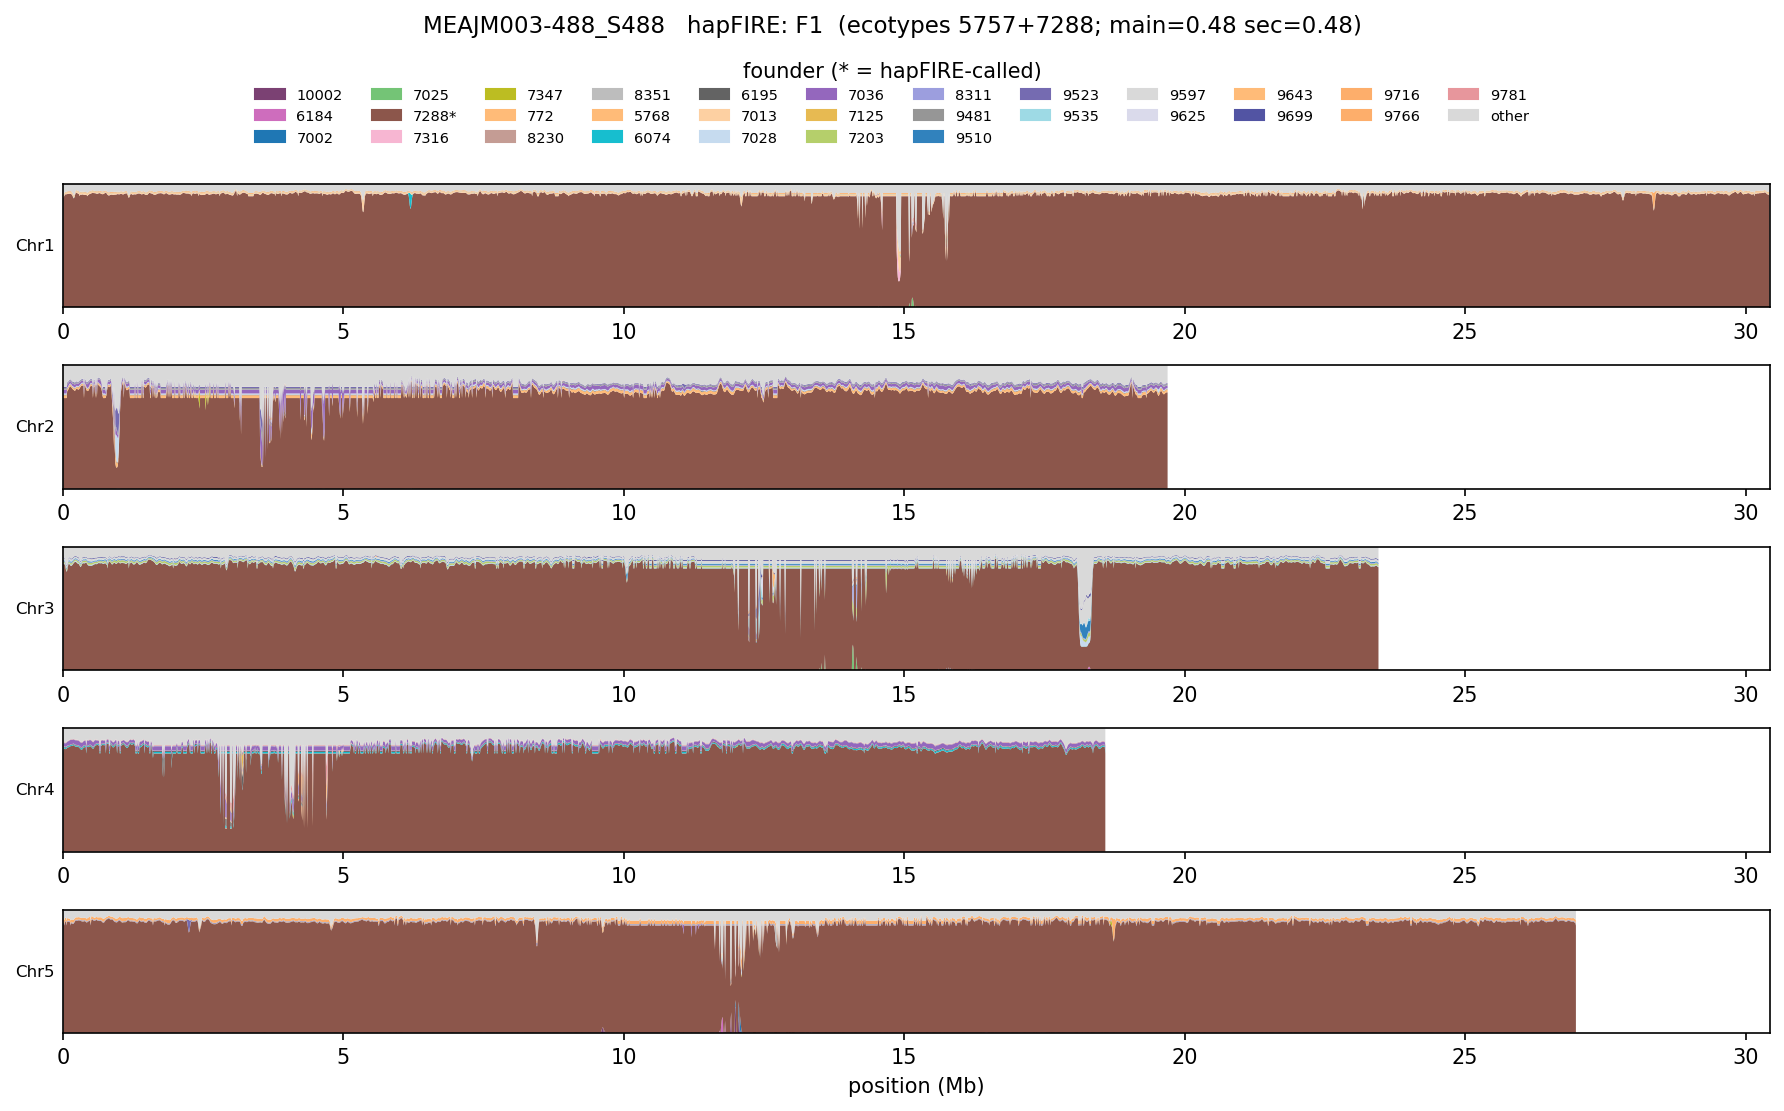
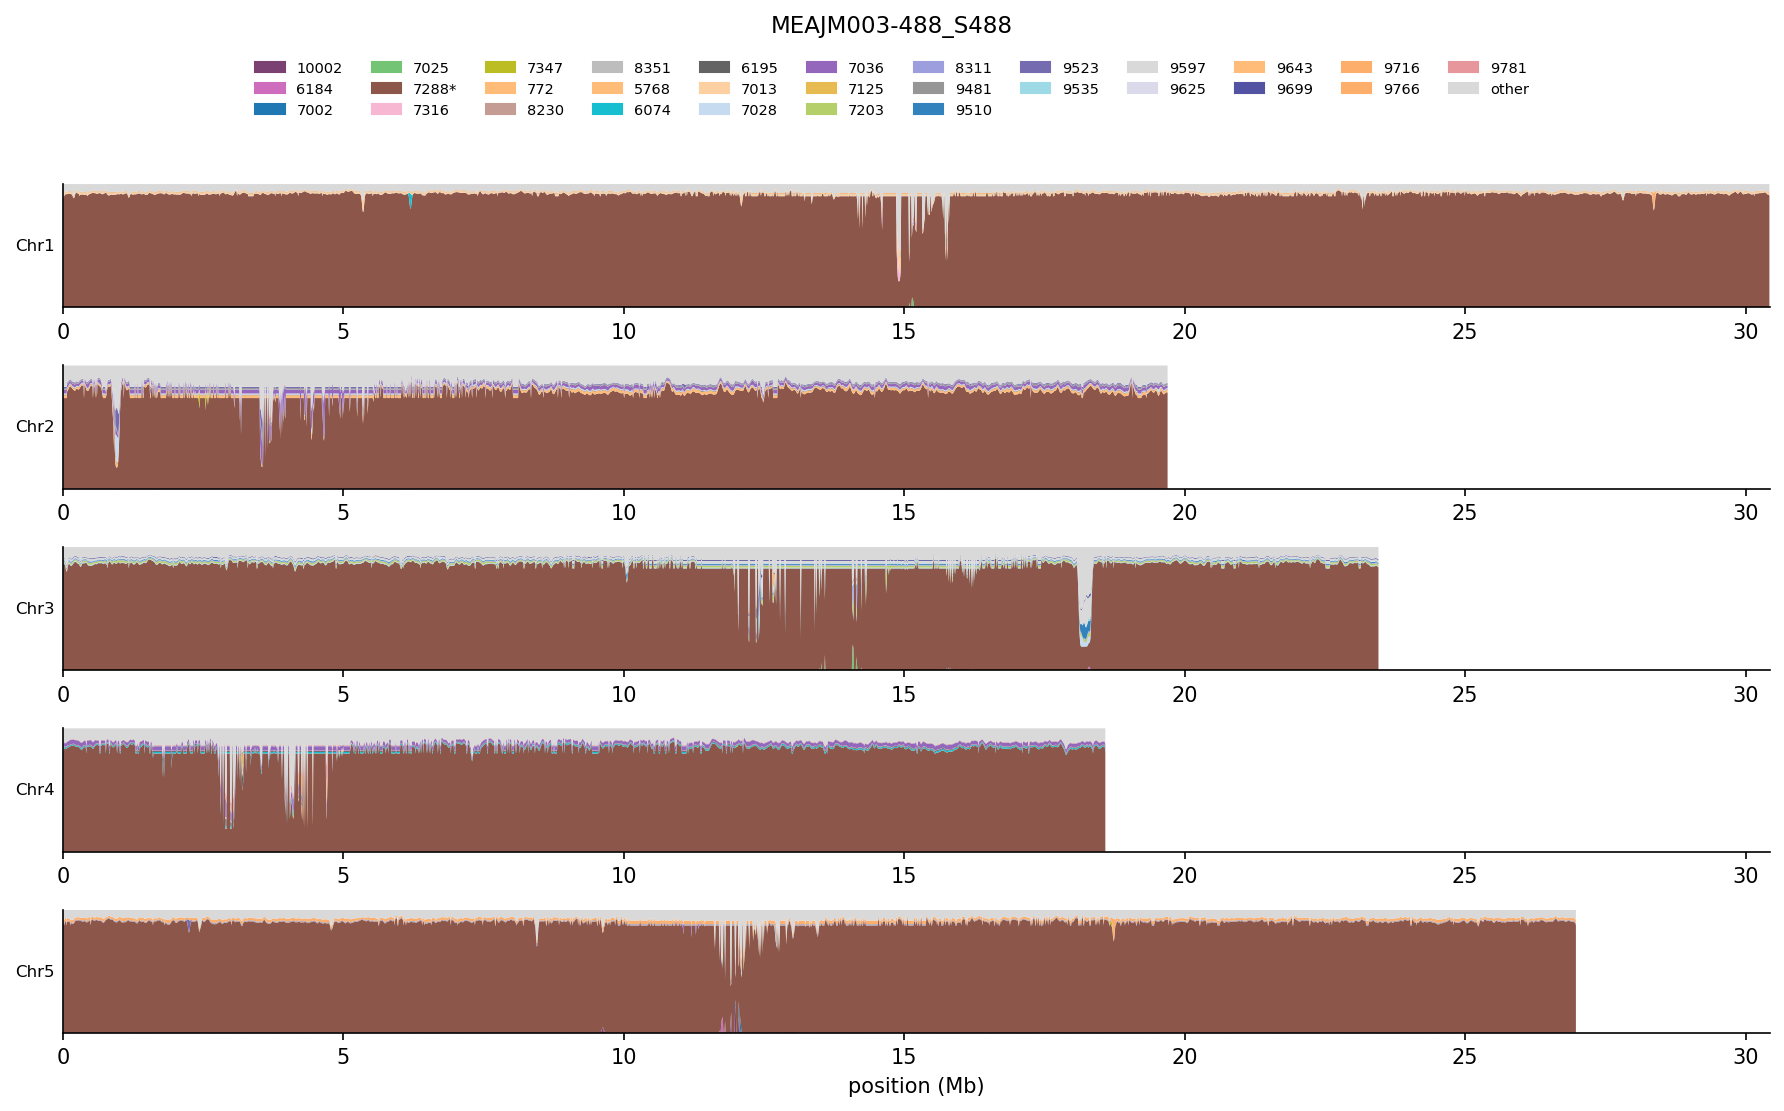
benchmarks/ruth_outcross: cleaner paintings — sample-name-only title, drop top/right spines, drop legend title text

Changed region(s): [[0.1233, 0.0, 0.8632, 0.153], [0.9865, 0.4896, 1.0, 0.5203]]

diff --git a/benchmarks/ruth_outcross/painting/paint_genome.py b/benchmarks/ruth_outcross/painting/paint_genome.py
@@ -81,16 +81,15 @@ def main():
                 p.set_rasterized(True)
             ax.set_xlim(0, xmax); ax.set_ylim(0, 1); ax.set_yticks([])
             ax.set_ylabel(c, fontsize=8, rotation=0, ha="right", va="center")
+            ax.spines["top"].set_visible(False)
+            ax.spines["right"].set_visible(False)
         axes[-1, 0].set_xlabel("position (Mb)")
-        hf_str = "+".join(hf_ids) if hf_ids else "-"
-        fig.suptitle(f"{sample}   hapFIRE: {cat}  (ecotypes {hf_str}; "
-                     f"main={r['main']:.2f} sec={r['sec']:.2f})", fontsize=11, y=0.99)
+        fig.suptitle(f"{sample}", fontsize=11, y=0.99)
         handles = [plt.Rectangle((0, 0), 1, 1, color=FCOLOR[i]) for i in big] + \
                   [plt.Rectangle((0, 0), 1, 1, color="0.85")]
         labels = [f"{FOUNDERS[i]}{'*' if i in set(hf) else ''}" for i in big] + ["other"]
         fig.legend(handles, labels, loc="upper center", ncol=min(len(big) + 1, 12),
-                   fontsize=7, frameon=False, bbox_to_anchor=(0.5, 0.96),
-                   title="founder (* = hapFIRE-called)")
+                   fontsize=7, frameon=False, bbox_to_anchor=(0.5, 0.96))
         fig.tight_layout(rect=[0, 0, 1, 0.90])
         outp = HERE / f"genome_{cat}_{sample}.png"
         fig.savefig(outp, dpi=150, bbox_inches="tight")
